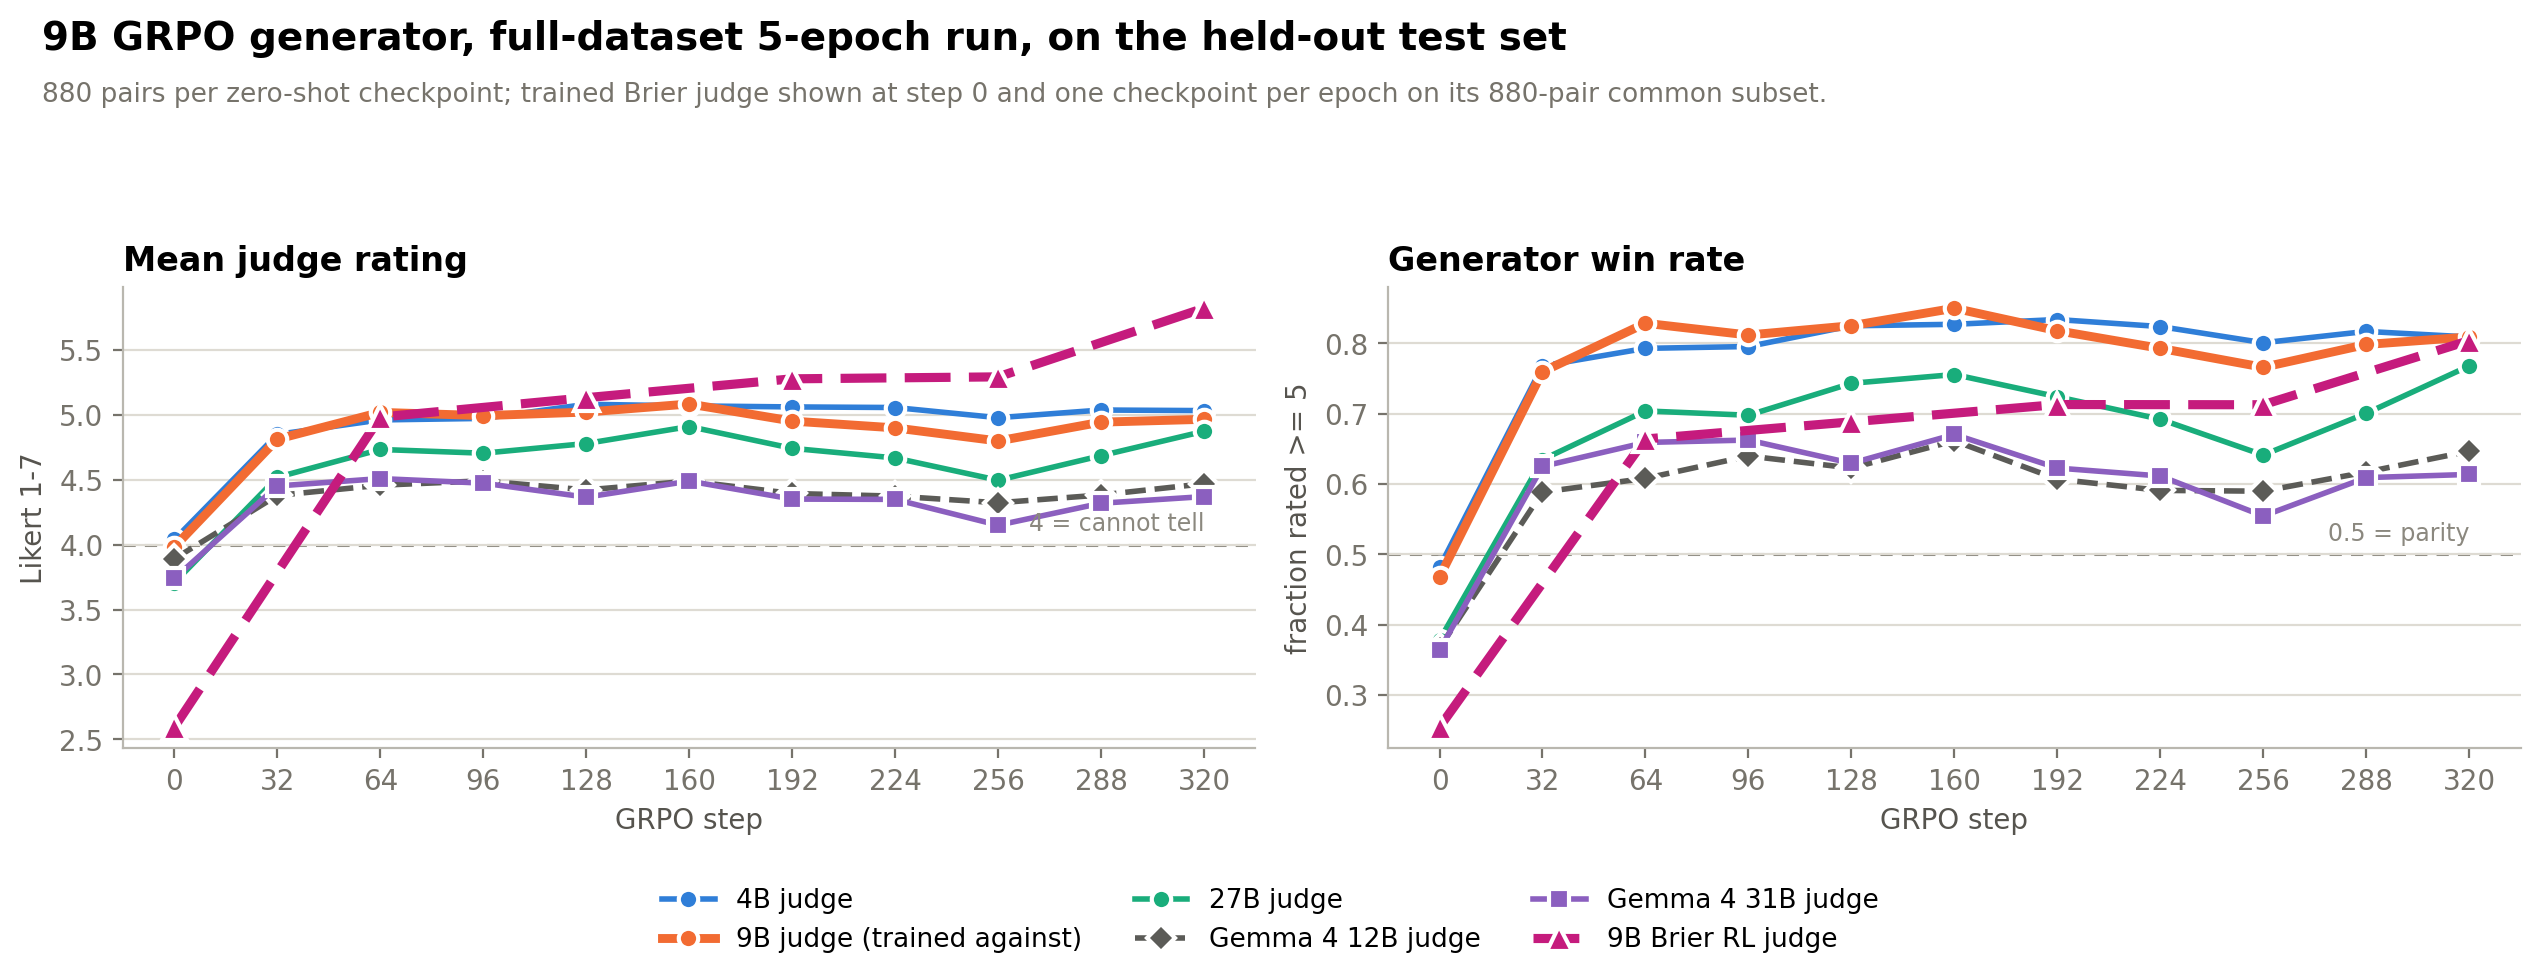
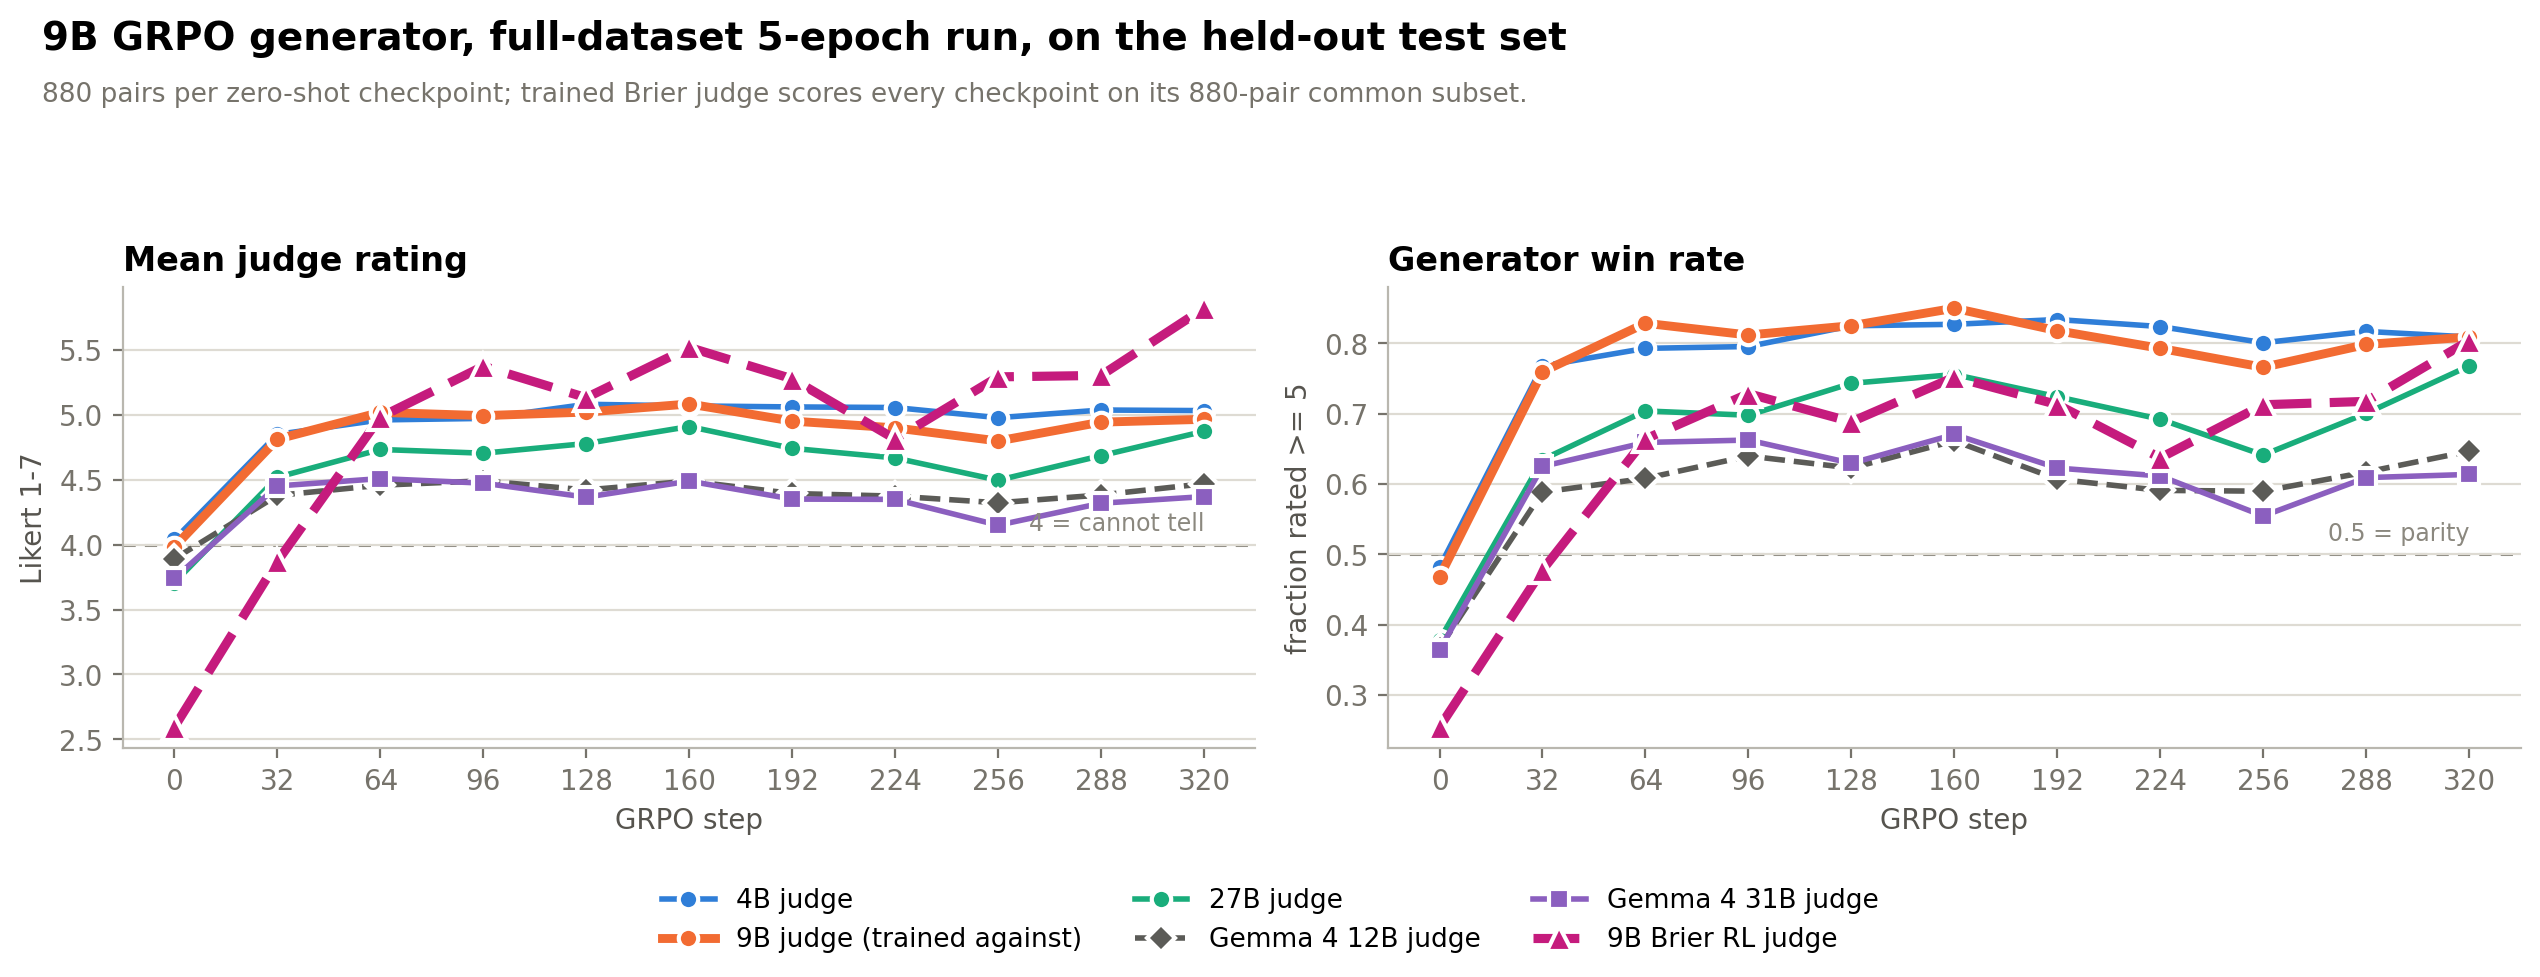
results: complete Brier judge checkpoint trajectory

diff --git a/tests/test_plot_brier_judge_trajectory.py b/tests/test_plot_brier_judge_trajectory.py
@@ -36,11 +36,11 @@ def _fixture(tmp_path: Path) -> tuple[Path, Path, Path]:
     for cell in BASE_CELLS:
         _write_summary(base / f"summary_{cell}.csv", full_steps)
     brier = tmp_path / "summary_judge-9b-brier.csv"
-    _write_summary(brier, (0, 64, 128, 192, 256, 320), n=872)
+    _write_summary(brier, full_steps, n=872)
     return base, brier, tmp_path / "overlay.png"
 
 
-def test_renders_five_dense_curves_and_sparse_brier_trajectory(tmp_path: Path) -> None:
+def test_renders_five_dense_curves_and_full_brier_trajectory(tmp_path: Path) -> None:
     base, brier, out = _fixture(tmp_path)
     result = subprocess.run(
         [
@@ -65,9 +65,9 @@ def test_renders_five_dense_curves_and_sparse_brier_trajectory(tmp_path: Path) -
         assert image.height > 700
 
 
-def test_rejects_a_non_epoch_brier_checkpoint(tmp_path: Path) -> None:
+def test_rejects_a_missing_half_epoch_brier_checkpoint(tmp_path: Path) -> None:
     base, brier, out = _fixture(tmp_path)
-    _write_summary(brier, (0, 32, 64, 128, 192, 256, 320), n=872)
+    _write_summary(brier, (0, 32, 64, 96, 128, 160, 192, 224, 256, 320), n=872)
 
     result = subprocess.run(
         [
@@ -86,4 +86,4 @@ def test_rejects_a_non_epoch_brier_checkpoint(tmp_path: Path) -> None:
     )
 
     assert result.returncode != 0
-    assert "expected Brier steps [0, 64, 128, 192, 256, 320]" in result.stderr
+    assert "expected Brier steps [0, 32, 64, 96, 128, 160, 192, 224, 256, 288, 320]" in result.stderr

diff --git a/results/2026-08-17-test-eval-9b-full5ep-brier-judge/plot/plot_brier_judge_trajectory.py b/results/2026-08-17-test-eval-9b-full5ep-brier-judge/plot/plot_brier_judge_trajectory.py
@@ -13,7 +13,7 @@ import matplotlib.pyplot as plt  # noqa: E402
 
 
 STEP_RE = re.compile(r"step(\d+)$")
-BRIER_STEPS = [0, 64, 128, 192, 256, 320]
+BRIER_STEPS = list(range(0, 321, 32))
 SERIES = [
     ("qwen35-4b", "4B judge", "#2f7ed8", "-", "o", 2.0),
     ("qwen35-9b", "9B judge (trained against)", "#f26b32", "-", "o", 3.2),
@@ -141,8 +141,8 @@ def main() -> None:
     fig.text(
         0.02,
         0.925,
-        f"{dense_n} pairs per zero-shot checkpoint; trained Brier judge shown at step 0 and "
-        f"one checkpoint per epoch on its {brier_n}-pair common subset.",
+        f"{dense_n} pairs per zero-shot checkpoint; trained Brier judge scores every checkpoint "
+        f"on its {brier_n}-pair common subset.",
         ha="left",
         va="top",
         color="#76736b",

diff --git a/scripts/plot_brier_judge_trajectory.py b/scripts/plot_brier_judge_trajectory.py
@@ -13,7 +13,7 @@ import matplotlib.pyplot as plt  # noqa: E402
 
 
 STEP_RE = re.compile(r"step(\d+)$")
-BRIER_STEPS = [0, 64, 128, 192, 256, 320]
+BRIER_STEPS = list(range(0, 321, 32))
 SERIES = [
     ("qwen35-4b", "4B judge", "#2f7ed8", "-", "o", 2.0),
     ("qwen35-9b", "9B judge (trained against)", "#f26b32", "-", "o", 3.2),
@@ -141,8 +141,8 @@ def main() -> None:
     fig.text(
         0.02,
         0.925,
-        f"{dense_n} pairs per zero-shot checkpoint; trained Brier judge shown at step 0 and "
-        f"one checkpoint per epoch on its {brier_n}-pair common subset.",
+        f"{dense_n} pairs per zero-shot checkpoint; trained Brier judge scores every checkpoint "
+        f"on its {brier_n}-pair common subset.",
         ha="left",
         va="top",
         color="#76736b",

diff --git a/results/2026-08-17-test-eval-9b-full5ep-brier-judge/provenance/halfsteps/summary_judge-9b-brier-halfsteps.md b/results/2026-08-17-test-eval-9b-full5ep-brier-judge/provenance/halfsteps/summary_judge-9b-brier-halfsteps.md
@@ -4,12 +4,7 @@
 |---|---|---|---|---|---|---|---|---|---|---|---|
 | 9b-full5ep-step0 | 880 | 880 | 877 | 2.5941 | 0.2543 | 24.86 | 0.7404 | 0.2596 | 859 | 18 | 3 |
 | 9b-full5ep-step32 | 880 | 880 | 879 | 3.8714 | 0.4778 | 46.76 | 0.5205 | 0.4795 | 876 | 3 | 1 |
-| 9b-full5ep-step64 | 880 | 880 | 875 | 4.9829 | 0.664 | 66.17 | 0.3352 | 0.6648 | 874 | 1 | 5 |
 | 9b-full5ep-step96 | 880 | 880 | 880 | 5.375 | 0.7284 | 72.61 | 0.2708 | 0.7292 | 879 | 1 | 0 |
-| 9b-full5ep-step128 | 880 | 880 | 876 | 5.1324 | 0.6884 | 68.84 | 0.3116 | 0.6884 | 876 | 0 | 4 |
 | 9b-full5ep-step160 | 880 | 880 | 879 | 5.5199 | 0.752 | 74.97 | 0.2454 | 0.7546 | 876 | 3 | 1 |
-| 9b-full5ep-step192 | 880 | 880 | 878 | 5.2779 | 0.713 | 70.84 | 0.2854 | 0.7146 | 876 | 2 | 2 |
 | 9b-full5ep-step224 | 880 | 880 | 879 | 4.8134 | 0.6371 | 63.03 | 0.3622 | 0.6378 | 878 | 1 | 1 |
-| 9b-full5ep-step256 | 880 | 880 | 877 | 5.293 | 0.7127 | 71.04 | 0.2824 | 0.7176 | 871 | 6 | 3 |
 | 9b-full5ep-step288 | 880 | 880 | 878 | 5.3041 | 0.7175 | 71.64 | 0.2825 | 0.7175 | 878 | 0 | 2 |
-| 9b-full5ep-step320 | 880 | 880 | 877 | 5.8221 | 0.8039 | 80.27 | 0.1961 | 0.8039 | 877 | 0 | 3 |
